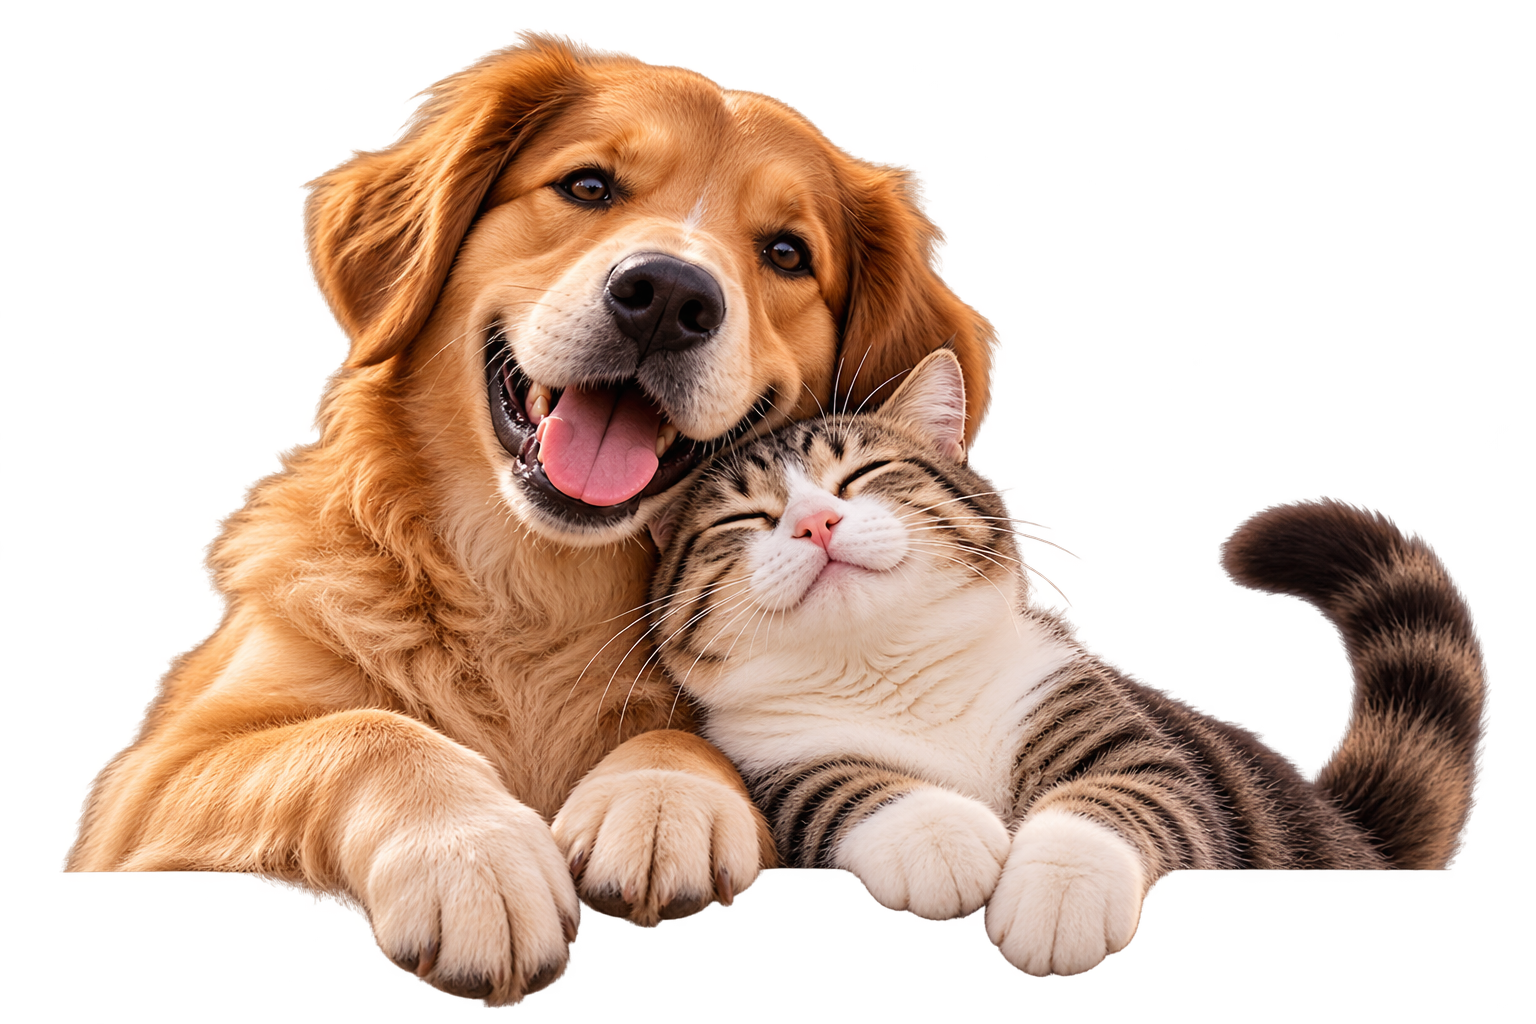
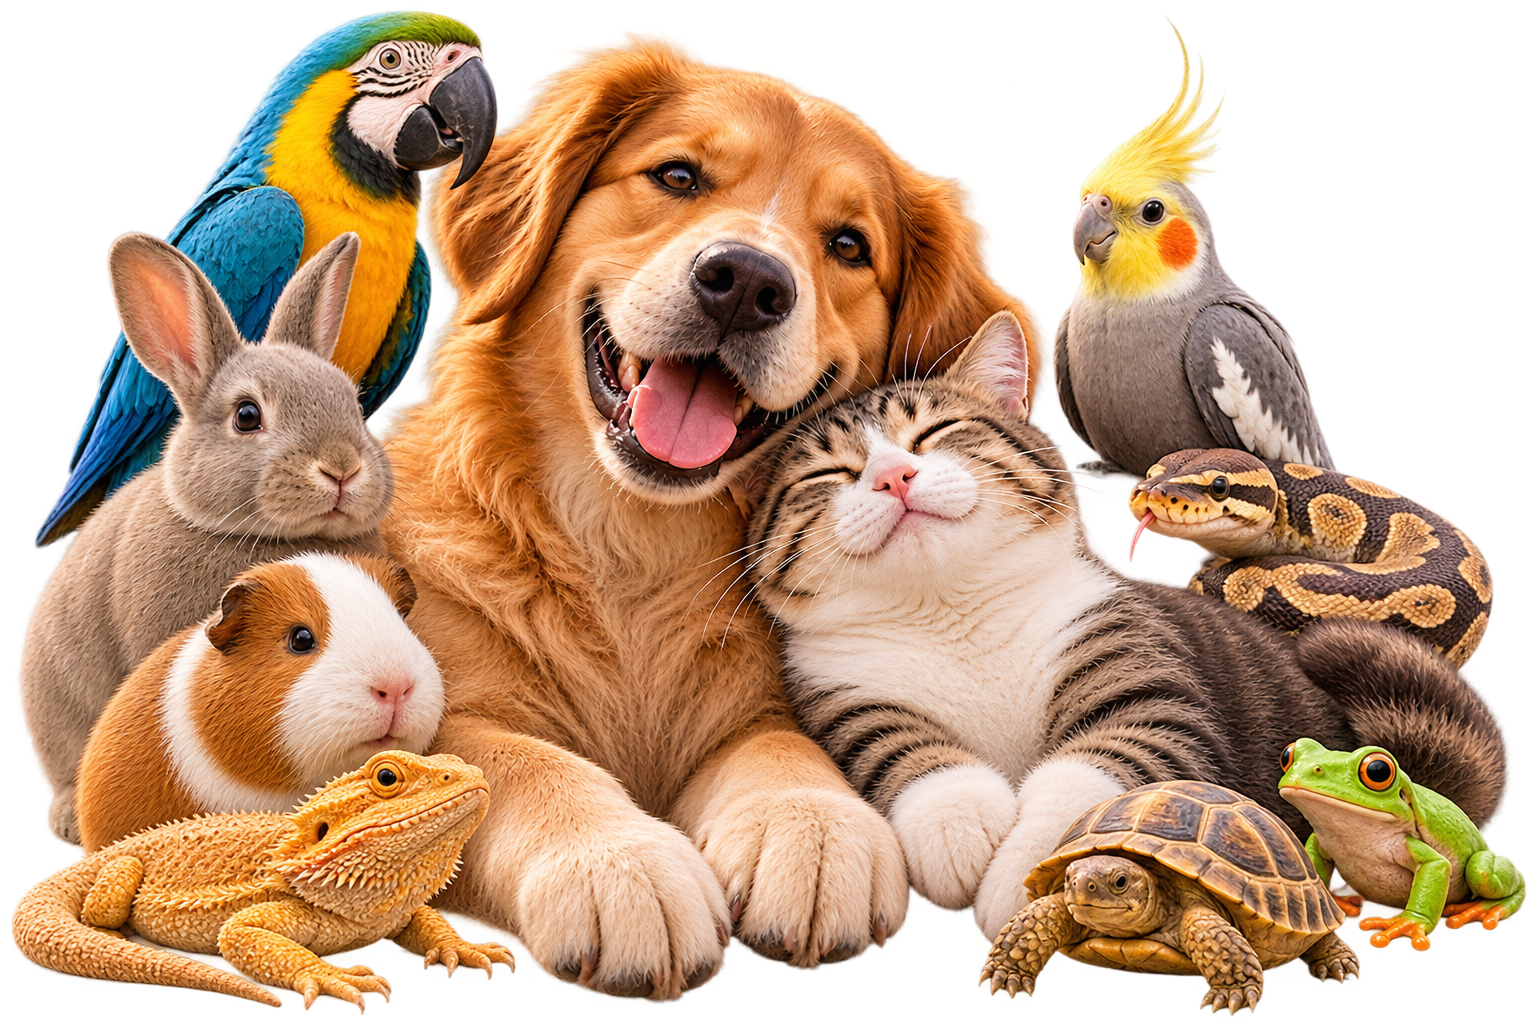
Se corrigen detalles y se arreglan imagenes para que coincidan con el nuevo contexto solicitado

diff --git a/core/templates/core/home.html b/core/templates/core/home.html
@@ -2,7 +2,7 @@
 {% load static %}
 
 {% block titulo %}
-HdP | Página Principal
+RH | Página Principal
 {% endblock %}
 
 {% block contenido %}
@@ -12,10 +12,10 @@ HdP | Página Principal
     <div class="container">
         <div class="row align-items-center">
             <div class="col-12 col-md-4">
-                <h1>Bienvenido a Huellas del Puerto</h1>
+                <h1>Bienvenido a Refugio Huellitas</h1>
                 <p class="justify">
                     Rescatamos, rehabilitamos y buscamos hogares responsables
-                    para perros y gatos en situación de abandono.
+                    para animales en situación de abandono.
                 </p>
                 <a href="/mascotas/" class="btn btn-primary">Ver mascotas</a>
             </div>
@@ -24,7 +24,7 @@ HdP | Página Principal
                 <img
                     class="img-fluid"
                     src="{% static 'core/img/bienvenida.png' %}"
-                    alt="Perros y gatos de la fundación"
+                    alt="Mascotas de la fundación"
                 />
             </div>
         </div>
@@ -46,9 +46,9 @@ HdP | Página Principal
             <div class="col-12 col-md-7">
                 <h2>Sobre la Fundación</h2>
                 <p class="justify">
-                    La Fundación Huellas del Puerto es una organización sin
+                    La Fundación Refugio Huellitas es una organización sin
                     fines de lucro que se dedica a rescatar, rehabilitar y
-                    encontrar hogares responsables para perros y gatos en
+                    encontrar hogares responsables para animales en
                     situación de abandono.
                 </p>
             </div>
@@ -138,7 +138,7 @@ HdP | Página Principal
                         <h3 class="card-title">Contacto</h3>
                         <i class="bi bi-envelope-fill fs-1"></i>
                         <p class="card-text">
-                            contacto@huellasdelpuerto.cl<br />
+                            contacto@refugiohuellitas.cl<br />
                             +56 9 1234 5678
                         </p>
                     </div>

diff --git a/core/templates/core/base.html b/core/templates/core/base.html
@@ -23,7 +23,10 @@
 
         <link rel="stylesheet" href="{% static 'core/css/style.css' %}" />
 
-        <title>{% block titulo %}Huellas del Puerto{% endblock %}</title>
+        <link rel="icon" type="image/png"
+              href="{% static 'core/img/favicon.png' %}">
+
+        <title>{% block titulo %}Refugio Huellitas{% endblock %}</title>
     </head>
 
     <body>
@@ -34,7 +37,7 @@
                     <a class="navbar-brand" href="/">
                         <img
                             src="{% static 'core/img/logo.png' %}"
-                            alt="Huellas del Puerto"
+                            alt="Refugio Huellitas"
                             class="logo-header"
                         />
                     </a>
@@ -57,9 +60,7 @@
                                 <a class="nav-link" href="/">Inicio</a>
                             </li>
                             <li class="nav-item">
-                                <a class="nav-link" href="/mascotas/"
-                                    >Mascotas</a
-                                >
+                                <a class="nav-link" href="/mascotas/">Mascotas</a>
                             </li>
                         </ul>
                     </div>
@@ -77,7 +78,7 @@
                     <div class="col-12 col-md-6">
                         <img
                             src="{% static 'core/img/logo.png' %}"
-                            alt="Huellas del Puerto"
+                            alt="Refugio Huellitas"
                             class="logo-footer"
                         />
                     </div>

diff --git a/core/templates/core/listaMascota.html b/core/templates/core/listaMascota.html
@@ -3,7 +3,7 @@
 {% load static %}
 
 {% block titulo %}
-HdP | Nuestras Mascotas
+RH | Nuestras Mascotas
 {% endblock %}
 
 {% block contenido %}
